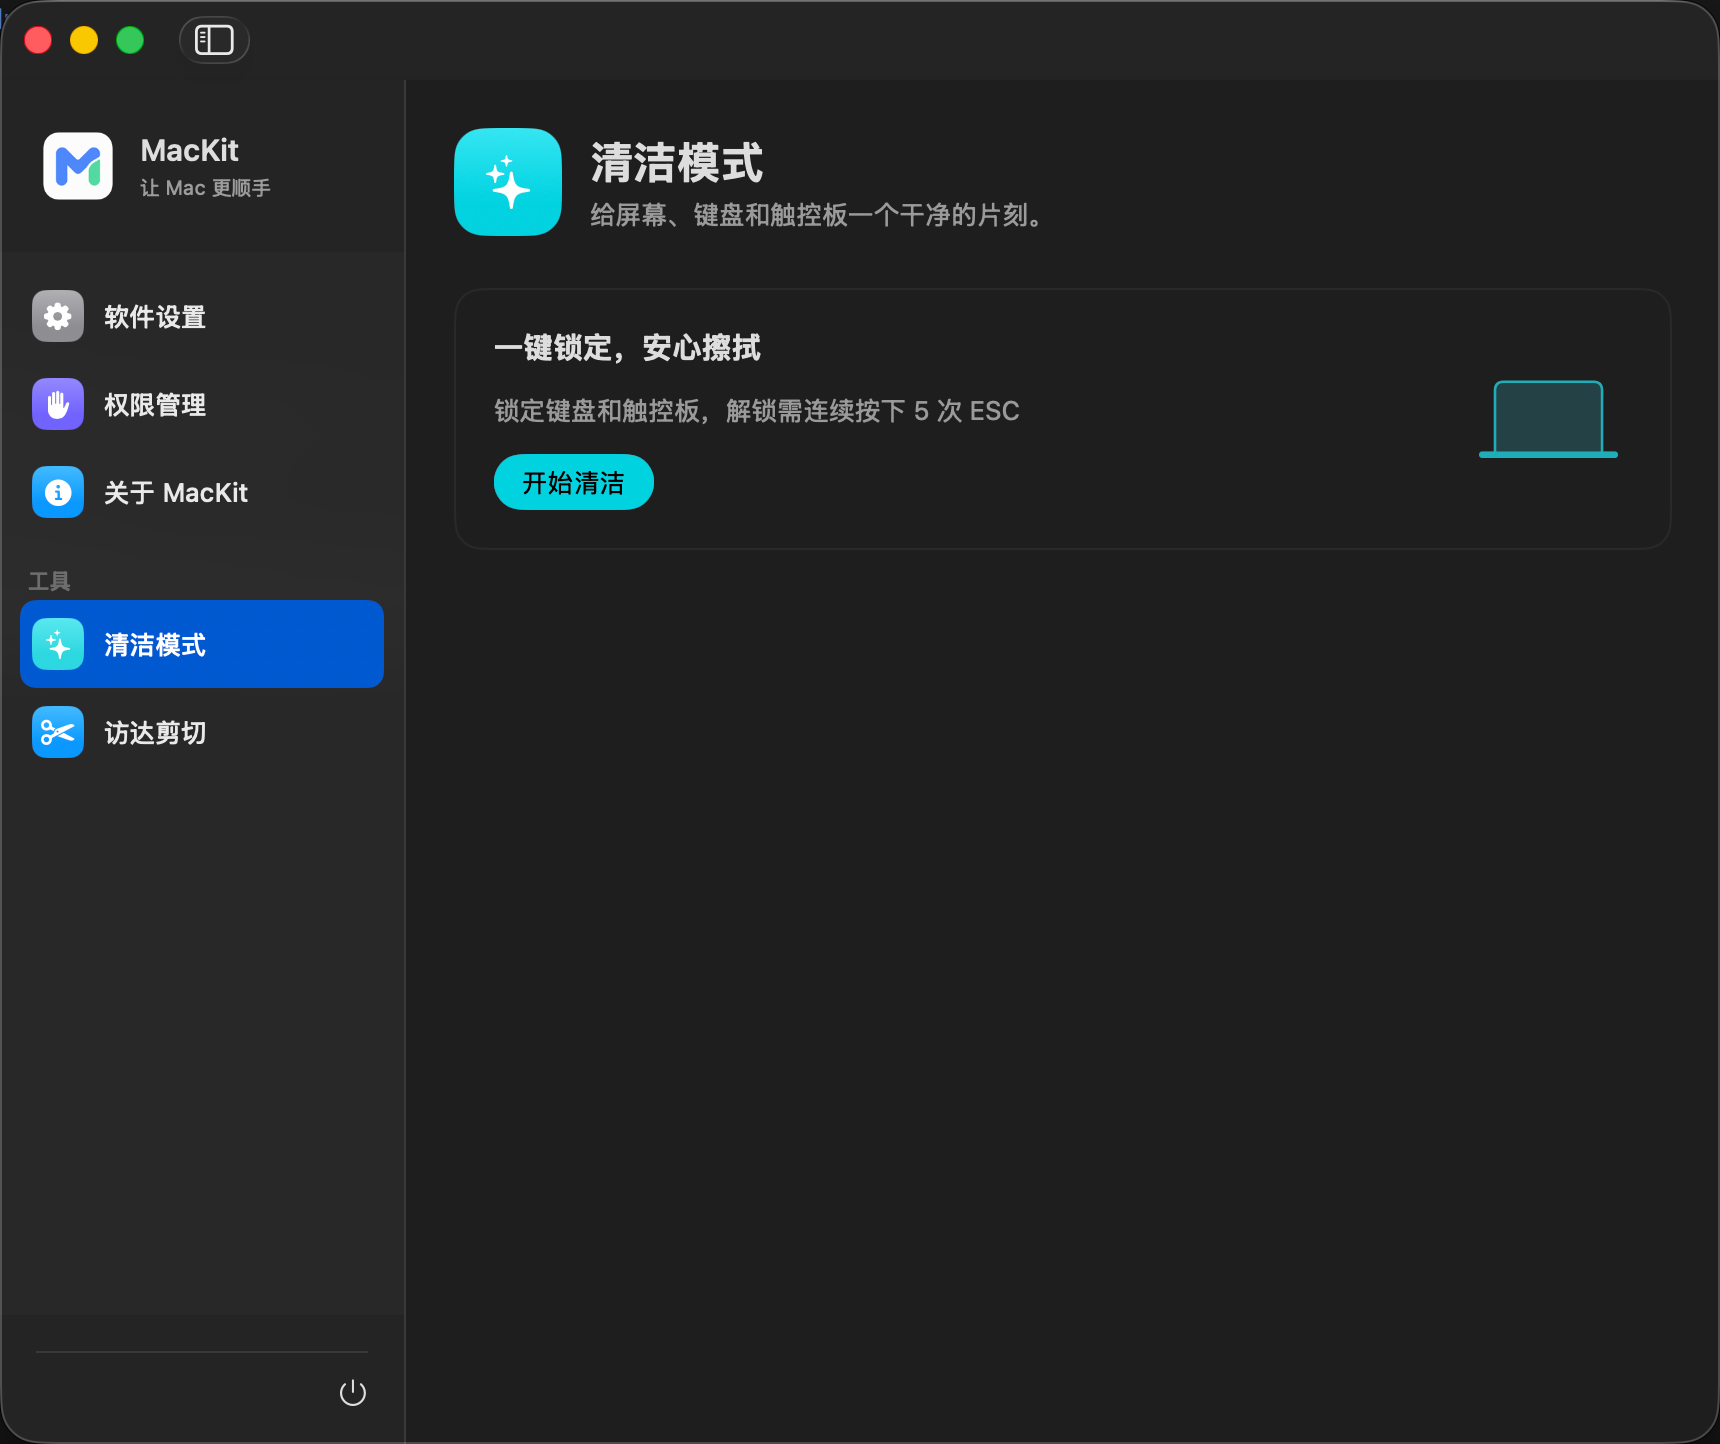
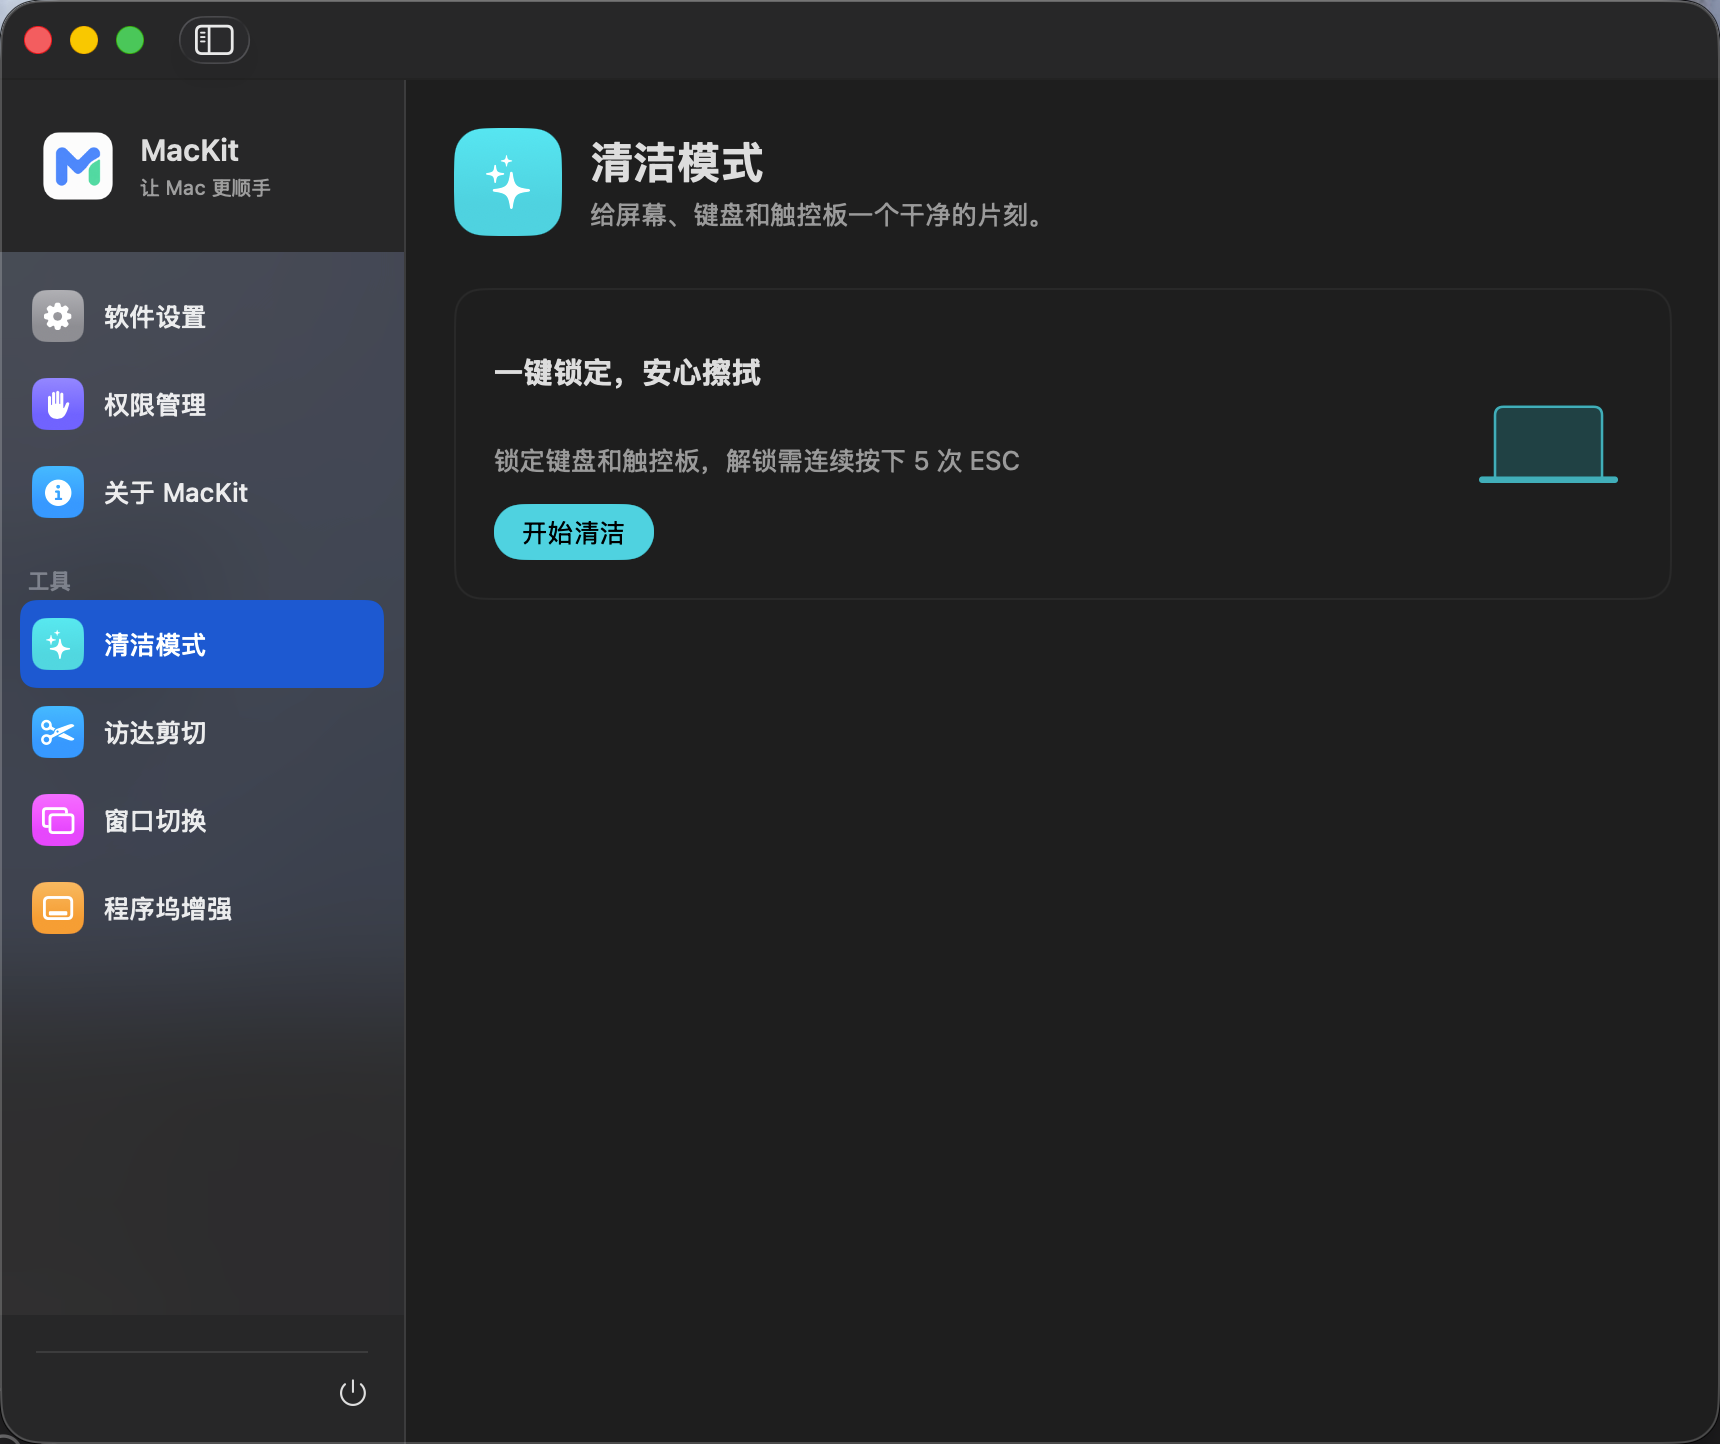
docs: refresh screenshots and describe window tools

diff --git a/README.md b/README.md
@@ -1,7 +1,7 @@
 <div align="center">
   <img src="Assets/MacKit-Icon.png" width="112" alt="MacKit 图标">
   <h1>MacKit</h1>
-  <p>轻一点，顺手一点。一个使用 Swift 与 SwiftUI 构建的原生 macOS 工具集，后台占用仅 30 MB。</p>
+  <p>轻一点，顺手一点。一个使用 Swift 与 SwiftUI 构建的原生 macOS 工具集，后台占用约 50 MB。</p>
   <p>macOS 14+ · Apple Silicon / Intel · 无第三方运行时依赖</p>
 </div>
 
@@ -10,7 +10,6 @@
 ### 清洁模式
 
 ![清洁模式界面](Assets/Screenshots/Cleaning.png)
-
 
 擦拭屏幕、键盘和触控板时，临时拦截键盘、鼠标及触控板输入。
 
@@ -35,17 +34,23 @@
 
 ### 窗口切换
 
-按住 ⌘ 并按 Tab 浏览应用窗口，⌘` 浏览当前应用窗口；Shift 反向选择，松开 ⌘ 确认；支持方向键、悬停选择及 ⌘Q / ⌘W / ⌘M 操作。无窗口应用排在最后，确认后打开应用。目录包括最小化和全屏窗口，按窗口 ID 激活。
+![窗口切换界面](Assets/Screenshots/WindowSwitcher.png)
+
+通过窗口预览快速选择目标窗口，支持最小化、全屏窗口及同一应用的多个窗口。
+
+- `⌘ Tab` 切换窗口，``⌘ ` `` 切换应用内窗口，松开 `⌘` 确认选择。
+- 使用方向键或指针悬停选择窗口，窗口较多时自动换行显示。
+- 使用 `⌘ Q` 退出应用、`⌘ W` 关闭窗口、`⌘ M` 最小化窗口，也可点击预览上的操作按钮。
+- 最小化窗口排在普通窗口之后；无窗口应用排在最后，选中确认后打开应用。
 
 ### 程序坞增强
 
-悬停应用图标约 200ms 显示窗口预览，点击缩略图激活指定窗口。点按当前应用的 Dock 图标最小化窗口，再次点按还原本功能收起的窗口；全屏窗口使用隐藏应用。拖动图标、带修饰键的点按、右键和后台应用的普通点按保留系统行为。支持底部和两侧 Dock，面板与图标间留有可通行区域。
+![程序坞增强界面](Assets/Screenshots/DockEnhancement.png)
 
-Dock 实现依据 [Vorssaint 的 DockClick](https://github.com/vorssaint/vorssaint-utils/tree/main/Sources/Vorssaint/Services/DockClick) 和 [DockPreview](https://github.com/vorssaint/vorssaint-utils/tree/main/Sources/Vorssaint/Services/DockPreview) 的事件拦截、拖动重放、悬停状态与截图回退机制独立重构。具体设计、测试范围见 [Dock 重构说明](docs/dock-enhancement.md)。
-
-Dock 面板按可用空间换行或滚动显示窗口，按需生成不超过 360×220 的位图，缩略图缓存设置 8 MB / 24 张上限、90 秒有效期；停用功能、暂停或内存压力时清空。不启动持续录屏或常驻窗口截图轮询；面板可见期间定期检查窗口目录，关闭后停止检查。优先使用 WindowServer 窗口快照，失败时回退 ScreenCaptureKit；窗口受保护、缺少权限或系统不提供图像时显示占位图。窗口目录合并 AX 和 CG 信息，包括最小化和其他桌面的全屏窗口。窗口 ID 和快照使用可选的 macOS 私有接口，未来系统可能退化为回退路径。
-
-编译和纯逻辑回归测试不等于真实桌面验收；多屏、不同应用的最小化/全屏/跨 Space 激活还需在授权后的桌面测试。
+- **悬停预览**：将指针停在程序坞应用图标上，查看窗口缩略图，点击预览切换到对应窗口。
+- **点击图标最小化**：点击当前应用的程序坞图标最小化窗口，再次点击还原；全屏窗口则隐藏应用。
+- 在预览中查看最小化和全屏状态，并直接退出应用、关闭或最小化窗口。
+- 悬停预览与点击最小化可分别开关。
 
 ### 软件设置
 
@@ -63,7 +68,7 @@ Dock 面板按可用空间换行或滚动显示窗口，按需生成不超过 36
 
 ## 使用
 
-从 [Releases](https://github.com/youyeyejie/MacKit/releases ) 下载构建好的应用，将 DMG 中的 `MacKit.app` 拖入 `Applications`，即可安装应用并使用。
+从 [Releases](https://github.com/youyeyejie/MacKit/releases) 下载构建好的应用，将 DMG 中的 `MacKit.app` 拖入 `Applications`，即可安装应用并使用。
 
 清洁模式、访达剪切、窗口切换和程序坞增强需要**辅助功能权限**；窗口预览还需要**屏幕录制权限**。在应用的「权限管理」页面点击对应的「前往授权…」，按系统提示允许 MacKit。授权后若功能仍未生效，退出并重新打开应用。
 
